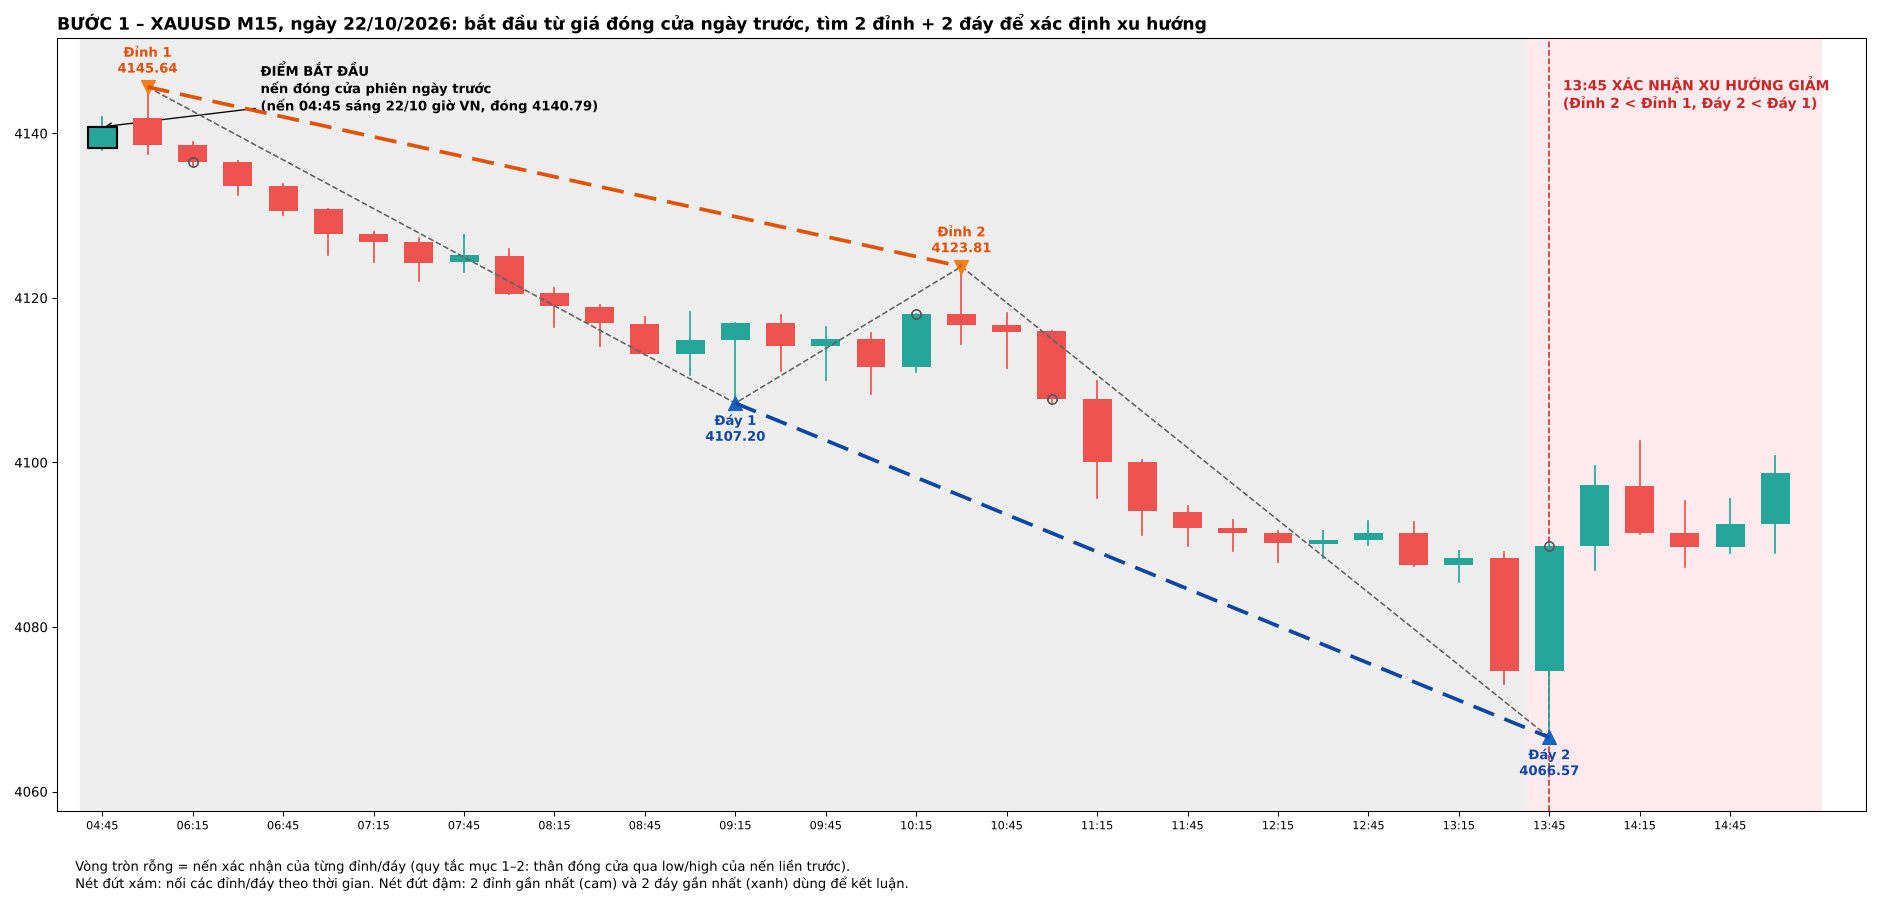
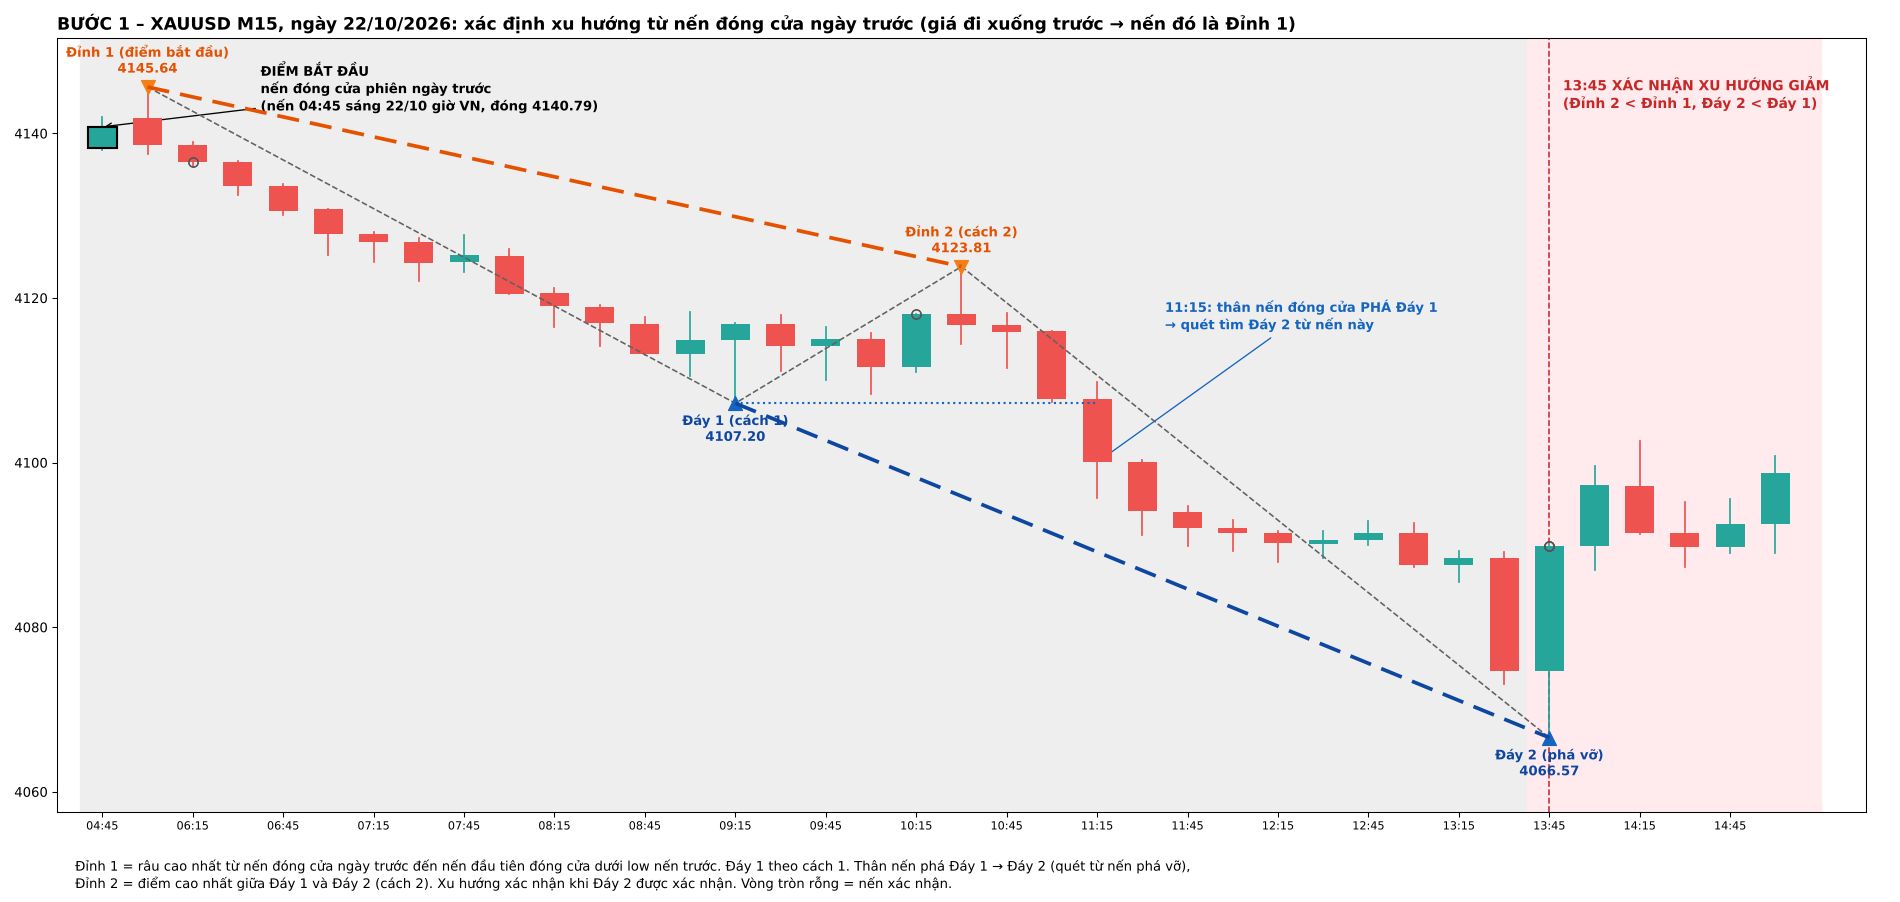
Quy tắc mới: xác định xu hướng đầu ngày từ nến đóng cửa ngày trước (bộ máy + kiến thức + bước 1); chạy lại backtest
Claude-Session: https://claude.ai/code/session_01QDQqkxbAsnss6apbWZAP33

diff --git a/tools/ve_tung_buoc.py b/tools/ve_tung_buoc.py
@@ -7,7 +7,7 @@ plt.rcParams["font.family"] = "DejaVu Sans"
 DAY_T = "2026-10-22 15:00"
 m1 = [eng.Bar(b.t[:16], b.o, b.h, b.l, b.c) for b in eng.load_csv("data/XAUUSD_M15_VN.csv")]
 st = bt.day_starts(m1); k = max(i for i, x in enumerate(st) if m1[x].t <= DAY_T); s = st[k] - 1; e = st[k + 1]
-seg = m1[s:e]; r = eng.analyze(seg)
+seg = m1[s:e]; r = eng.analyze(seg, start_rule="prev_close")
 T = lambda hhmm: next(i for i, x in enumerate(seg) if x.t[11:] == hhmm)
 
 def candles(ax, a, b, hl=()):
@@ -28,31 +28,40 @@ def step1():
     candles(ax, a, b, hl=(0,))
     ax.annotate(f"ĐIỂM BẮT ĐẦU\nnến đóng cửa phiên ngày trước\n(nến {seg[0].t[11:]} sáng {seg[0].t[8:10]}/{seg[0].t[5:7]} giờ VN, đóng {seg[0].c:.2f})", xy=(0, seg[0].c), xytext=(3.5, seg[0].c + 2),
                 fontsize=10, fontweight="bold", arrowprops=dict(arrowstyle="->"))
-    sw = sorted([w for w in r.swings if w.conf <= CONF], key=lambda w: w.i)
+    _seen = set(); sw = []
+    for w in sorted([w for w in r.swings if w.conf <= CONF], key=lambda w: w.i):
+        if (w.kind, w.i) not in _seen:
+            _seen.add((w.kind, w.i)); sw.append(w)
     nt = nb = 0
     for w in sw:
         if w.kind == "T":
             nt += 1; ax.scatter([w.i], [w.price], marker="v", s=110, color="#f57f17", zorder=6)
-            ax.text(w.i, w.price + 1.2, f"Đỉnh {nt}\n{w.price:.2f}", ha="center", va="bottom", fontsize=10, color="#e65100", fontweight="bold")
+            ax.text(w.i, w.price + 1.2, f"Đỉnh {nt}" + {"open": " (điểm bắt đầu)", "m12": " (cách 1)", "between": " (cách 2)", "break": " (phá vỡ)"}[w.how] + f"\n{w.price:.2f}", ha="center", va="bottom", fontsize=10, color="#e65100", fontweight="bold")
         else:
             nb += 1; ax.scatter([w.i], [w.price], marker="^", s=110, color="#1565c0", zorder=6)
-            ax.text(w.i, w.price - 1.2, f"Đáy {nb}\n{w.price:.2f}", ha="center", va="top", fontsize=10, color="#0d47a1", fontweight="bold")
+            ax.text(w.i, w.price - 1.2, f"Đáy {nb}" + {"open": " (điểm bắt đầu)", "m12": " (cách 1)", "between": " (cách 2)", "break": " (phá vỡ)"}[w.how] + f"\n{w.price:.2f}", ha="center", va="top", fontsize=10, color="#0d47a1", fontweight="bold")
         ax.plot([w.conf, w.conf], [seg[w.conf].c, seg[w.conf].c], marker="o", ms=7, mfc="none", mec="#555", zorder=7)
     ax.plot([w.i for w in sw], [w.price for w in sw], color="#616161", lw=1.2, ls="--", zorder=5)
     tops = [w for w in sw if w.kind == "T"][-2:]; bots = [w for w in sw if w.kind == "B"][-2:]
     ax.plot([w.i for w in tops], [w.price for w in tops], color="#e65100", lw=2.8, ls=(0, (6, 3)), zorder=6)
     ax.plot([w.i for w in bots], [w.price for w in bots], color="#0d47a1", lw=2.8, ls=(0, (6, 3)), zorder=6)
     c = CONF
+    b1 = [w for w in sw if w.kind == "B"][0]
+    brk = next(i for i in range(b1.conf + 1, CONF + 1) if seg[i].c < b1.price)
+    ax.plot([b1.i, brk], [b1.price, b1.price], color="#1565c0", ls=":", lw=1.6, zorder=5)
+    ax.annotate(f"{seg[brk].t[11:]}: thân nến đóng cửa PHÁ Đáy 1\n→ quét tìm Đáy 2 từ nến này", xy=(brk, seg[brk].c),
+                xytext=(brk + 1.5, b1.price + 9), fontsize=10, fontweight="bold", color="#1565c0",
+                arrowprops=dict(arrowstyle="->", color="#1565c0"))
     ax.axvline(c, color="#c62828", lw=1.2, ls="--")
     nT = {id(w): n + 1 for n, w in enumerate([w for w in sw if w.kind == "T"])}; nB = {id(w): n + 1 for n, w in enumerate([w for w in sw if w.kind == "B"])}
     ax.text(c + .3, max(x.h for x in seg[a:b]) + 1.5, f"{HH} XÁC NHẬN XU HƯỚNG GIẢM\n(Đỉnh {nT[id(tops[1])]} < Đỉnh {nT[id(tops[0])]}, Đáy {nB[id(bots[1])]} < Đáy {nB[id(bots[0])]})", fontsize=10.5,
             fontweight="bold", color="#c62828", va="top")
-    ax.text(.01, -.06, "Vòng tròn rỗng = nến xác nhận của từng đỉnh/đáy (quy tắc mục 1–2: thân đóng cửa qua low/high của nến liền trước).\n"
-                       "Nét đứt xám: nối các đỉnh/đáy theo thời gian. Nét đứt đậm: 2 đỉnh gần nhất (cam) và 2 đáy gần nhất (xanh) dùng để kết luận.",
+    ax.text(.01, -.06, "Đỉnh 1 = râu cao nhất từ nến đóng cửa ngày trước đến nến đầu tiên đóng cửa dưới low nến trước. Đáy 1 theo cách 1. Thân nến phá Đáy 1 → Đáy 2 (quét từ nến phá vỡ),\n"
+                       "Đỉnh 2 = điểm cao nhất giữa Đáy 1 và Đáy 2 (cách 2). Xu hướng xác nhận khi Đáy 2 được xác nhận. Vòng tròn rỗng = nến xác nhận.",
             transform=ax.transAxes, va="top", fontsize=10)
     ticks = list(range(a, b, 2)); ax.set_xticks(ticks); ax.set_xticklabels([seg[i].t[11:] for i in ticks], fontsize=8.5)
     ax.set_xlim(a - 1, b + 1); ax.set_ylim(min(x.l for x in seg[a:b]) - 9, max(x.h for x in seg[a:b]) + 6)
-    ax.set_title(f"BƯỚC 1 – XAUUSD M15, ngày {seg[1].t[8:10]}/{seg[1].t[5:7]}/{seg[1].t[:4]}: bắt đầu từ giá đóng cửa ngày trước, tìm 2 đỉnh + 2 đáy để xác định xu hướng",
+    ax.set_title(f"BƯỚC 1 – XAUUSD M15, ngày {seg[1].t[8:10]}/{seg[1].t[5:7]}/{seg[1].t[:4]}: xác định xu hướng từ nến đóng cửa ngày trước (giá đi xuống trước → nến đó là Đỉnh 1)",
                  loc="left", fontsize=13, fontweight="bold")
     plt.tight_layout(); plt.savefig("/home/user/Trading-zAI/backtest/buoc-1-m15.png", dpi=95)
     for w in sw: print(w.kind, seg[w.i].t[11:], w.price, "conf", seg[w.conf].t[11:])

diff --git a/tools/smc_engine.py b/tools/smc_engine.py
@@ -51,7 +51,7 @@ class Swing:
     i: int         # chỉ số nến tạo đỉnh/đáy (râu cao/thấp nhất)
     price: float
     conf: int      # chỉ số nến xác nhận (hoặc nến mà tại đó đỉnh/đáy được ghi nhận)
-    how: str       # "m12" (quy tắc mục 1–2) | "break" (phá vỡ) | "between" (cực trị giữa hai đỉnh/đáy)
+    how: str       # "m12" (quy tắc mục 1–2) | "break" (phá vỡ) | "between" (cực trị giữa hai đỉnh/đáy) | "open" (nến đóng cửa ngày trước)
 
 
 @dataclass
@@ -63,7 +63,9 @@ class Result:
 
 
 # ----------------------------------------------------------------------------- lõi
-def analyze(bars):
+def analyze(bars, start_rule=None):
+    """start_rule="prev_close": nến đầu tiên (bars[0]) là nến đóng cửa ngày hôm trước và được coi là
+    Đỉnh 1 (giá đi xuống trước) hoặc Đáy 1 (giá đi lên trước) – xem knowledge/03-setup.md mục 3."""
     n = len(bars)
     H = [b.h for b in bars]; L = [b.l for b in bars]; C = [b.c for b in bars]
     res = Result(state=["UNCLEAR"] * n)
@@ -99,8 +101,59 @@ def analyze(bars):
         scan = None
 
     res.ctx = [None] * n
+    if start_rule == "prev_close":
+        mode = "OPEN"
+    op = {"stage": "dir"}       # trạng thái giai đoạn mở đầu ngày
     for i in range(1, n):
         _snap(res, i - 1, mode, T, B, scan)
+        if mode == "OPEN":
+            res.state[i] = "UNCLEAR"
+            st = op["stage"]
+            if st == "dir":                                   # giá đi xuống hay đi lên trước?
+                if C[i] < L[i - 1]:
+                    j = max(range(0, i + 1), key=lambda k: H[k])
+                    op.update(stage="first", d="DOWN", P1=add(Swing("T", j, H[j], i, "open")))
+                elif C[i] > H[i - 1]:
+                    j = min(range(0, i + 1), key=lambda k: L[k])
+                    op.update(stage="first", d="UP", P1=add(Swing("B", j, L[j], i, "open")))
+                continue
+            dn = op["d"] == "DOWN"; P1 = op["P1"]
+            if st == "first":                                 # Đáy 1 (giảm) / Đỉnh 1 (tăng) theo cách 1
+                if (dn and C[i] > H[i - 1]) or (not dn and C[i] < L[i - 1]):
+                    rng = range(min(P1.i + 1, i), i + 1)
+                    j = min(rng, key=lambda k: L[k]) if dn else max(rng, key=lambda k: H[k])
+                    op.update(stage="wait", Q1=add(Swing("B" if dn else "T", j, L[j] if dn else H[j], i, "m12")))
+                continue
+            Q1 = op["Q1"]
+            if st == "wait":
+                if (dn and C[i] < Q1.price) or (not dn and C[i] > Q1.price):
+                    op.update(stage="scan2", b=i)             # thân nến phá Đáy 1 / Đỉnh 1
+                elif (dn and C[i] > P1.price) or (not dn and C[i] < P1.price):
+                    # quay ngược vượt Đỉnh 1 / Đáy 1 mà chưa phá Q1 → chờ 2 đỉnh + 2 đáy theo cách 1
+                    mode = "UNKNOWN"; hist = [P1, Q1]; look = "T" if dn else "B"; start = Q1.i + 1
+                    res.events.append((i, "Vượt điểm bắt đầu khi chưa phá " + ("Đáy 1" if dn else "Đỉnh 1") + " → chờ 2 đỉnh + 2 đáy"))
+                continue
+            if st == "scan2":                                 # chờ xác nhận Đáy 2 / Đỉnh 2
+                if (dn and C[i] > H[i - 1]) or (not dn and C[i] < L[i - 1]):
+                    rng = range(op["b"], i + 1)
+                    j = min(rng, key=lambda k: L[k]) if dn else max(rng, key=lambda k: H[k])
+                    Q2 = add(Swing("B" if dn else "T", j, L[j] if dn else H[j], i, "break"))
+                    mid = range(Q1.i, j + 1)
+                    k = max(mid, key=lambda q: H[q]) if dn else min(mid, key=lambda q: L[q])
+                    P2 = add(Swing("T" if dn else "B", k, H[k] if dn else L[k], i, "between"))
+                    ok = P2.price < P1.price if dn else P2.price > P1.price
+                    if ok:
+                        mode = "DOWN" if dn else "UP"
+                        if dn:
+                            B, T = Q2, P2
+                        else:
+                            T, B = Q2, P2
+                        scan = None
+                        res.events.append((i, "Xác nhận XU HƯỚNG " + ("GIẢM" if dn else "TĂNG")))
+                        res.state[i] = mode
+                    else:
+                        mode = "UNKNOWN"; hist = [P1, Q1, P2, Q2]; look = "T" if dn else "B"; start = j + 1
+                continue
         if mode == "UNKNOWN":
             top_c = C[i] < L[i - 1]          # nến xác nhận đỉnh
             bot_c = C[i] > H[i - 1]          # nến xác nhận đáy

diff --git a/tools/backtest.py b/tools/backtest.py
@@ -102,13 +102,13 @@ def day_starts(bars, gap_min=30):
     return out
 
 
-def analyze_daily(bars):
+def analyze_daily(bars, start_rule=None):
     """Mỗi ngày giao dịch bắt đầu tìm xu hướng lại từ NẾN ĐÓNG CỬA CỦA NGÀY LIỀN TRƯỚC (nến cuối ngày hôm trước)."""
     n = len(bars); ctx = [("UNKNOWN", None, None, None)] * n
     starts = day_starts(bars) + [n]
     for a, b in zip(starts, starts[1:]):
         s = max(0, a - 1)                                   # nến cuối của ngày trước
-        r = eng.analyze(bars[s:b])
+        r = eng.analyze(bars[s:b], start_rule=start_rule)
         cache = {}
         def sh(sw):
             if sw is None:
@@ -323,6 +323,8 @@ def main():
                     help="poi: vào lệnh tại POI hợp lệ; discount: chỉ cần phase 3 chạm 50%% rồi tạo đáy/đỉnh")
     ap.add_argument("--gio-cam-chat", action="store_true",
                     help="bỏ cả các thiết lập có nến xác nhận đáy/đỉnh nằm trong giờ cấm (mặc định chỉ cấm khớp lệnh)")
+    ap.add_argument("--mo-dau", default="gia-dong-cua", choices=["gia-dong-cua", "2dinh-2day"],
+                    help="cách xác định xu hướng đầu ngày (khi --xu-huong moi-ngay): gia-dong-cua = coi nến đóng cửa ngày trước là Đỉnh/Đáy 1")
     ap.add_argument("--xu-huong", default="lien-tuc", choices=["lien-tuc", "moi-ngay"],
                     help="moi-ngay: mỗi ngày tìm xu hướng lại từ giá đóng cửa ngày liền trước")
     a = ap.parse_args()
@@ -343,7 +345,8 @@ def main():
     print(f"Khung: {a.khung}  ({len(m15)} nến khung lớn, {len(m1)} nến khung vào lệnh)")
     trades = []; diag = {}
     for side, A, Bm in (("BUY", m15, m1), ("SELL", neg(m15), neg(m1))):
-        ctx = analyze_daily(A) if a.xu_huong == "moi-ngay" else eng.analyze(A).ctx
+        ctx = (analyze_daily(A, "prev_close" if a.mo_dau == "gia-dong-cua" else None) if a.xu_huong == "moi-ngay"
+               else eng.analyze(A).ctx)
         trades += run_long(A, Bm, ctx, side, a.spread, a.hard, a.be_tf, diag=diag, poi_mode=a.vung, strict_time=a.gio_cam_chat)
     print("Phễu lọc:", ", ".join(f"{k}={v}" for k, v in sorted(diag.items())))
     trades.sort(key=lambda t: t["t_in"])

diff --git a/knowledge/03-setup.md b/knowledge/03-setup.md
@@ -60,6 +60,18 @@ Ví dụ chart thật: `examples/01-dinh-day-xauusd-h4.jpg`
   - Xu hướng tăng: đỉnh theo dõi bằng quy tắc phá vỡ. Đáy = điểm thấp nhất giữa hai đỉnh.
   - Xu hướng giảm: đáy theo dõi bằng quy tắc phá vỡ. Đỉnh = điểm cao nhất giữa hai đáy.
 
+**Xác định xu hướng ĐẦU NGÀY từ nến đóng cửa ngày hôm trước (đã xác nhận, xem `examples/34-xac-dinh-xu-huong-tu-gia-dong-cua.png`):**
+- Mỗi ngày giao dịch, bắt đầu tìm xu hướng lại từ **nến đóng cửa của ngày hôm trước**.
+- **Giá đi xuống hay đi lên trước:** cây nến xác nhận đầu tiên sau nến đóng cửa ngày trước là nến đóng cửa dưới low nến trước → **đi xuống**; đóng cửa trên high nến trước → **đi lên**.
+- **Giá đi xuống trước:**
+  - **Đỉnh 1** = nến đóng cửa ngày trước, **lấy râu** (cách code: râu cao nhất từ nến đó đến nến xác nhận đầu tiên).
+  - **Đáy 1** theo **cách 1** (thân nến đóng cửa trên high nến liền trước).
+  - Có nến có **thân đóng cửa phá Đáy 1** → quét từ nến phá vỡ tìm **Đáy 2**; **Đỉnh 2** = điểm cao nhất giữa Đáy 1 và Đáy 2 (**cách 2**).
+  - **Xác nhận xu hướng giảm khi Đáy 2 được xác nhận** (không phải ngay lúc phá Đáy 1).
+- **Giá đi lên trước:** ngược lại (Đáy 1 = râu dưới nến đóng cửa ngày trước; Đỉnh 1 theo cách 1; phá Đỉnh 1 → Đỉnh 2; Đáy 2 = điểm thấp nhất giữa hai đỉnh; xác nhận tăng khi Đỉnh 2 được xác nhận).
+- **Đi xuống tạo Đáy 1, rồi quay lên vượt Đỉnh 1 mà chưa phá Đáy 1:** đợi **đỉnh mới cao hơn Đỉnh 1** và **đáy mới cao hơn Đáy 1** (cả hai tìm bằng **cách 1**) → xác nhận xu hướng tăng. (Đi lên trước thì ngược lại.)
+- Minh họa trên dữ liệu thật: `backtest/buoc-1-m15.png` (XAUUSD M15, 22/10/2026).
+
 **Định nghĩa xu hướng (đã xác nhận):**
 - **Xu hướng tăng:** đỉnh sau cao hơn đỉnh trước VÀ đáy sau cao hơn đáy trước.
 - **Xu hướng giảm:** đỉnh sau thấp hơn đỉnh trước VÀ đáy sau thấp hơn đáy trước.

diff --git a/backtest/README.md b/backtest/README.md
@@ -102,3 +102,16 @@ cần kiểm tra lại trên dữ liệu khác (năm khác, cặp khác) trướ
 | M5/M1 | liên tục | POI | 17 | 1/16/0 | −4.23R | −5.05R |
 
 - M5/M5 mỗi ngày không cần POI: âm cả 4 tháng; spread 0.5 → −21.7R, 0.8 → −29.5R.
+
+## Lần 8 – xác định xu hướng đầu ngày theo quy tắc mới (`--xu-huong moi-ngay --mo-dau gia-dong-cua`)
+Nến đóng cửa ngày trước = Đỉnh 1 (đi xuống trước) / Đáy 1 (đi lên trước); xác nhận khi Đáy 2 / Đỉnh 2 xác nhận.
+Ngoài ra sửa lỗi: ở chế độ chưa rõ xu hướng, một nến không thể vừa là đỉnh vừa là đáy kế tiếp. "Không cần POI", spread 0.3.
+
+| Khung | Quy tắc mới (giá đóng cửa) | Quy tắc cũ (2 đỉnh + 2 đáy) |
+|---|---|---|
+| M15/M15 | 30 lệnh, **+3.91R**, sụt −7.29R | 30 lệnh, +4.83R, sụt −7.34R |
+| M15/M1 | 101 lệnh, **+2.69R**, sụt −18.19R | 109 lệnh, +2.46R, sụt −18.82R |
+| M5/M5 | 101 lệnh, **−21.05R** | 102 lệnh, −17.71R |
+| M1/M1 | 526 lệnh, **+26.73R**, sụt −18.05R | 529 lệnh, +33.64R, sụt −16.14R |
+
+Khác biệt nhỏ: quy tắc mở đầu ngày chỉ ảnh hưởng tới vài giờ đầu mỗi ngày.
